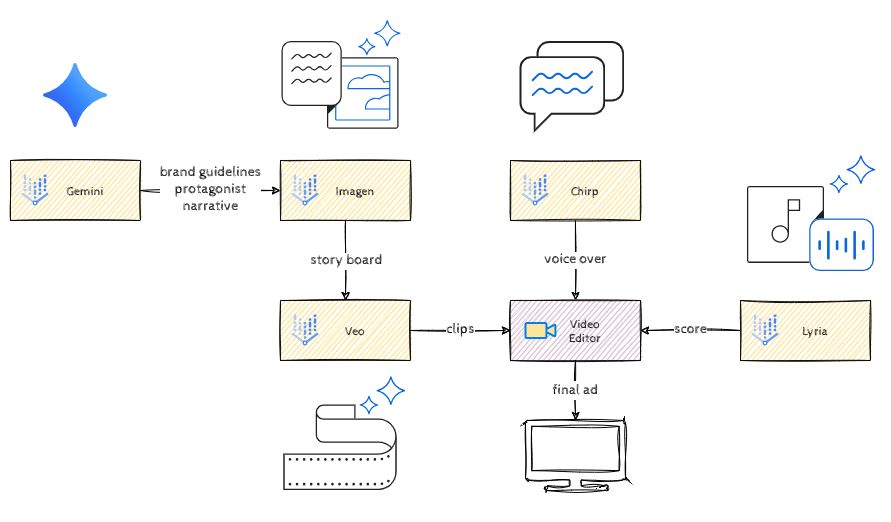
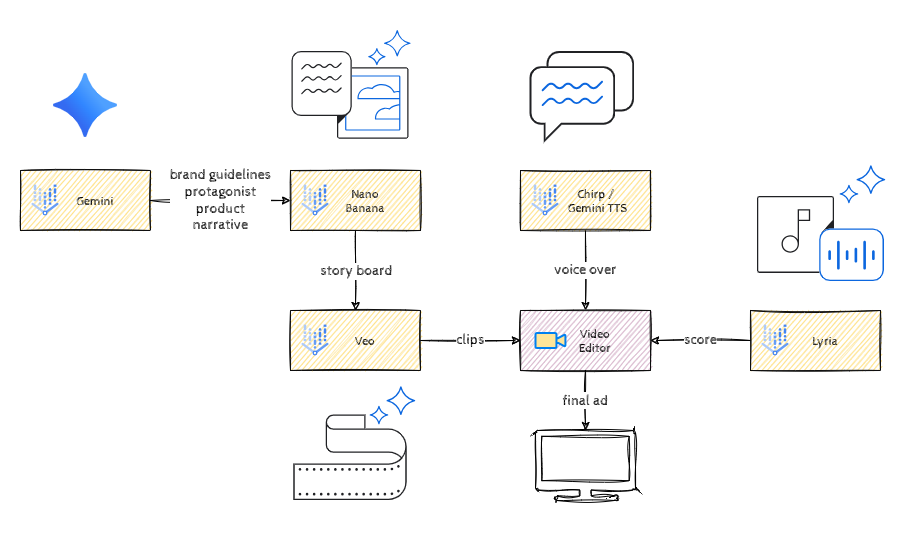
adding the new diagram, updating solutions and removing model versions...

diff --git a/hacks/genmedia-on-gcp/solutions.md b/hacks/genmedia-on-gcp/solutions.md
@@ -43,15 +43,15 @@ We're expecting *at least* three scenes, but it makes sense to have more (and sh
 
 ### Notes & Guidance
 
-The idea is that the participants should use the descriptions from Challenge 1, and use either Gemini or *Help me write* capabilities with Vertex AI Media Studio to generate the required prompts. They should start using *Imagen* for the original images for the protagonist and the product, and then switch to Nano Banana to generate the different angles.
+The idea is that the participants should use the descriptions from Challenge 1, and use either Gemini or *Help me write* capabilities with Vertex AI Media Studio to generate the required prompts. Nano Banana can be used to create the original images as well as to generate the different angles.
+
+> [!IMPORTANT]  
+> Participants should try to stay away from *Imagen* family of models, these are not well suited for this task. *Gemini Native Image* (aka: *Nano Banana*) is the recommended model.
 
 For the storyboard scene generation again Nano Banana would be the best fit. They can start uploading the relevant protagonist and product pictures together with the text of the their storyboard scene (maybe optimized through Gemini or *Help me write* capabilities) to generate the images.
 
-> [!NOTE]  
-> If participants choose to generate the different angles or the storyboard scenes with Imagen, this could be quite hard for consistency. Let them experiment to find out how hard that is but **DO NOT** let them spend too much time on that approach.
-
 > [!WARNING]  
-> At the time of this writing Nano Banana in Vertex AI Media Studio has a limit of 10MB, so if there are too many images inserted in a single conversation, things will fail. Also there are limits to how many images can be included in a single prompt, if the participants go beyond that limit, Nano Banana will silently ignore those. Participants should use multiple conversations and/or fewer images.
+> At the time of this writing Nano Banana in Vertex AI Media Studio has a limit of 10MB, so if there are too many images inserted in a single conversation, things will fail. Also there are limits to how many images can be included in a single prompt (3 for Nano Banana at the moment), if the participants go beyond that limit, Nano Banana will silently ignore those. Participants should use multiple conversations and/or fewer images.
 
 ## Challenge 3: From Stills to Motion
 
@@ -59,8 +59,7 @@ For the storyboard scene generation again Nano Banana would be the best fit. The
 
 The storyboard images created in the previous challenge should be used as a *Reference* to generate the video clips. If the participants gloss over this, they will struggle with consistency. Similarly, just like the previous challenge, **DO NOT** let them struggle for too long.
 
-> [!NOTE]  
-> At the time of this writing only Veo 2 can do references, so it's okay if participants use that model.
+There's a plethora of different options here, participants can use the story board imags as *Reference*s, or generate start and end frames based on the story board and use those for the newer *Veo* models.
 
 ## Challenge 4: The Assembly
 
@@ -76,7 +75,7 @@ Google Vids is a web-based video creation app designed to make producing profess
 
 ### Notes & Guidance
 
-You'll have the choice to use Google's Chirp model or Gemini itself to create the voice-overs. The difference between these two lies in the source of vocal identity and style. Chirp functions as an advanced text-to-speech engine, requiring a pre-existing voice, either from its library or a custom clone, to articulate the provided text with high fidelity; any stylistic nuance is primarily achieved through manipulating the text itself with punctuation and pacing adjustments. In contrast, Gemini operates as a true generative voice model, creating the vocal characteristics and delivery style from scratch based on natural language prompts. This allows a user to conjure a voice by describing it (e.g., "a deep, soothing voice") and directing its emotional tone (e.g., "speak with excitement"), offering a layer of creative control and on-the-fly vocal design that Chirp, in this context, does not.
+You'll have the choice to use Google's Chirp 3 HD model or Gemini itself to create the voice-overs. The difference between these two lies in the source of vocal identity and style. Chirp functions as an advanced text-to-speech engine, requiring a pre-existing voice, either from its library or a custom clone, to articulate the provided text with high fidelity; any stylistic nuance is primarily achieved through manipulating the text itself with punctuation and pacing adjustments. In contrast, Gemini operates as a true generative voice model, creating the vocal characteristics and delivery style from scratch based on natural language prompts. This allows a user to conjure a voice by describing it (e.g., "a deep, soothing voice") and directing its emotional tone (e.g., "speak with excitement"), offering a layer of creative control and on-the-fly vocal design that Chirp, in this context, does not.
 
 ## Challenge 6: The Soundtrack
 

diff --git a/hacks/genmedia-on-gcp/README.md b/hacks/genmedia-on-gcp/README.md
@@ -105,7 +105,7 @@ Now that we have our brand guidelines, our protagonist and our narrative, it's t
 
 ### Description
 
-First we will create our **protagonist**. Using *Gemini 2.5 Flash Image* (aka: *Nano Banana*), generate a representative image of your protagonist using your description of them and your brand guidelines. Once you have your protagonist images, generate more images that depict the protagonist at different angles (front, side, back, 3/4, etc).
+First we will create our **protagonist**. Using *Gemini Native Image* (aka: *Nano Banana*), generate a representative image of your protagonist using your description of them and your brand guidelines. Once you have your protagonist images, generate more images that depict the protagonist at different angles (front, side, back, 3/4, etc).
 
 Once you have your protagonist, generate the same set of images for the **product**.
 
@@ -173,7 +173,7 @@ You know the drill, once finished, store the resulting clips in the storage buck
 
 - [Generate videos with Veo](https://cloud.google.com/vertex-ai/docs/generative-ai/video/generate-videos)
 - [Detailed Prompting Guide for Veo](https://medium.com/google-cloud/veo-3-a-detailed-prompting-guide-867985b46018)
-- [Veo 3.1 Prompting Guide](https://cloud.google.com/blog/products/ai-machine-learning/ultimate-prompting-guide-for-veo-3-1)
+- [Veo Prompting Guide](https://cloud.google.com/blog/products/ai-machine-learning/ultimate-prompting-guide-for-veo-3-1)
 - [Veo Technical Deep Dive](https://medium.com/google-cloud/google-veo-a-technical-deep-dive-for-the-ai-director-a6fdf6438a3f)
 
 ## Challenge 4: The Assembly
